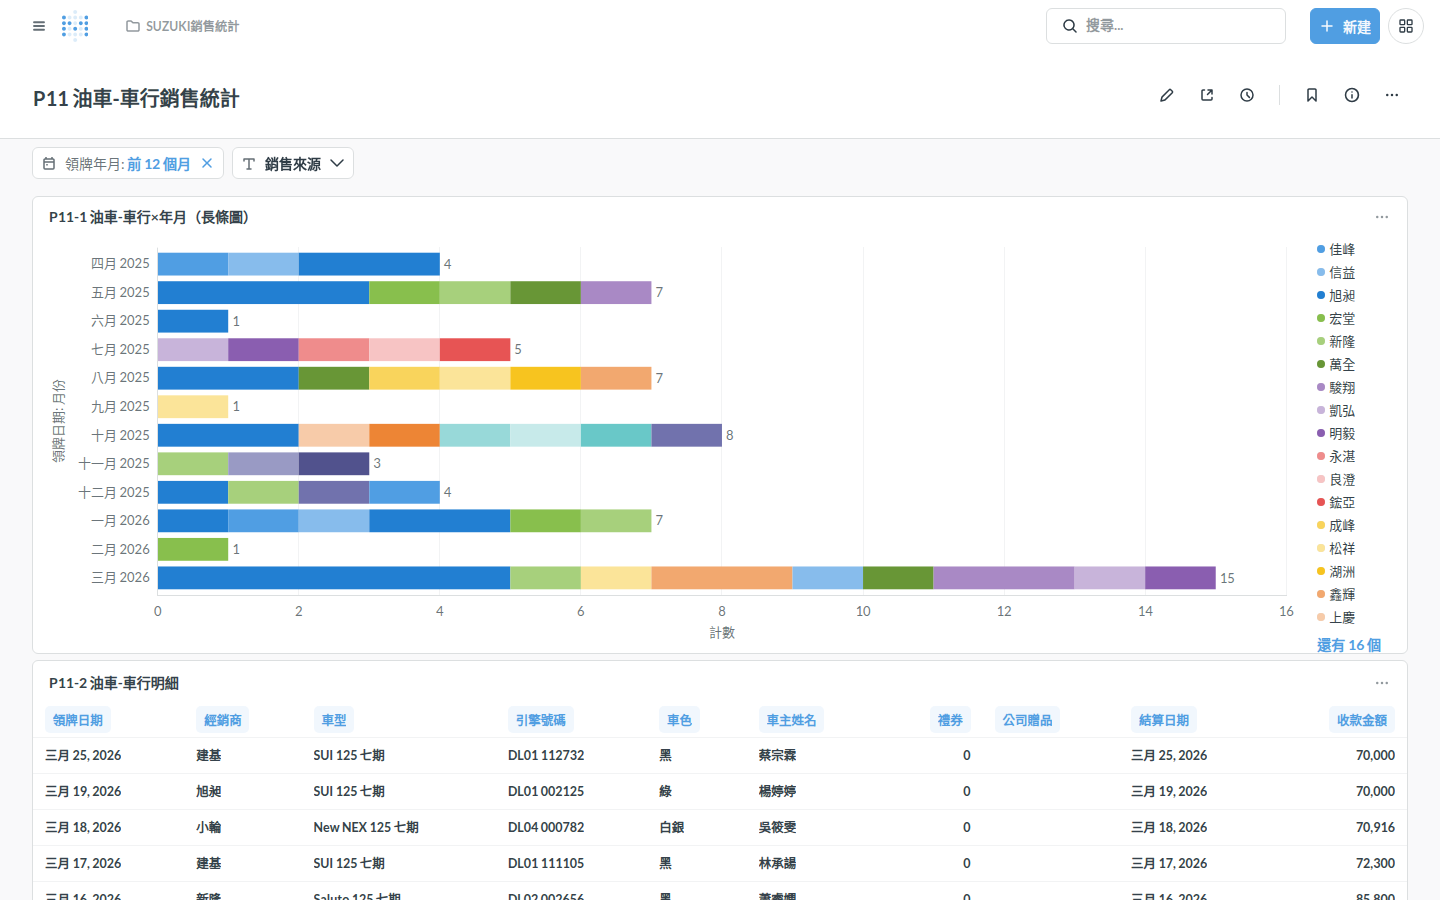
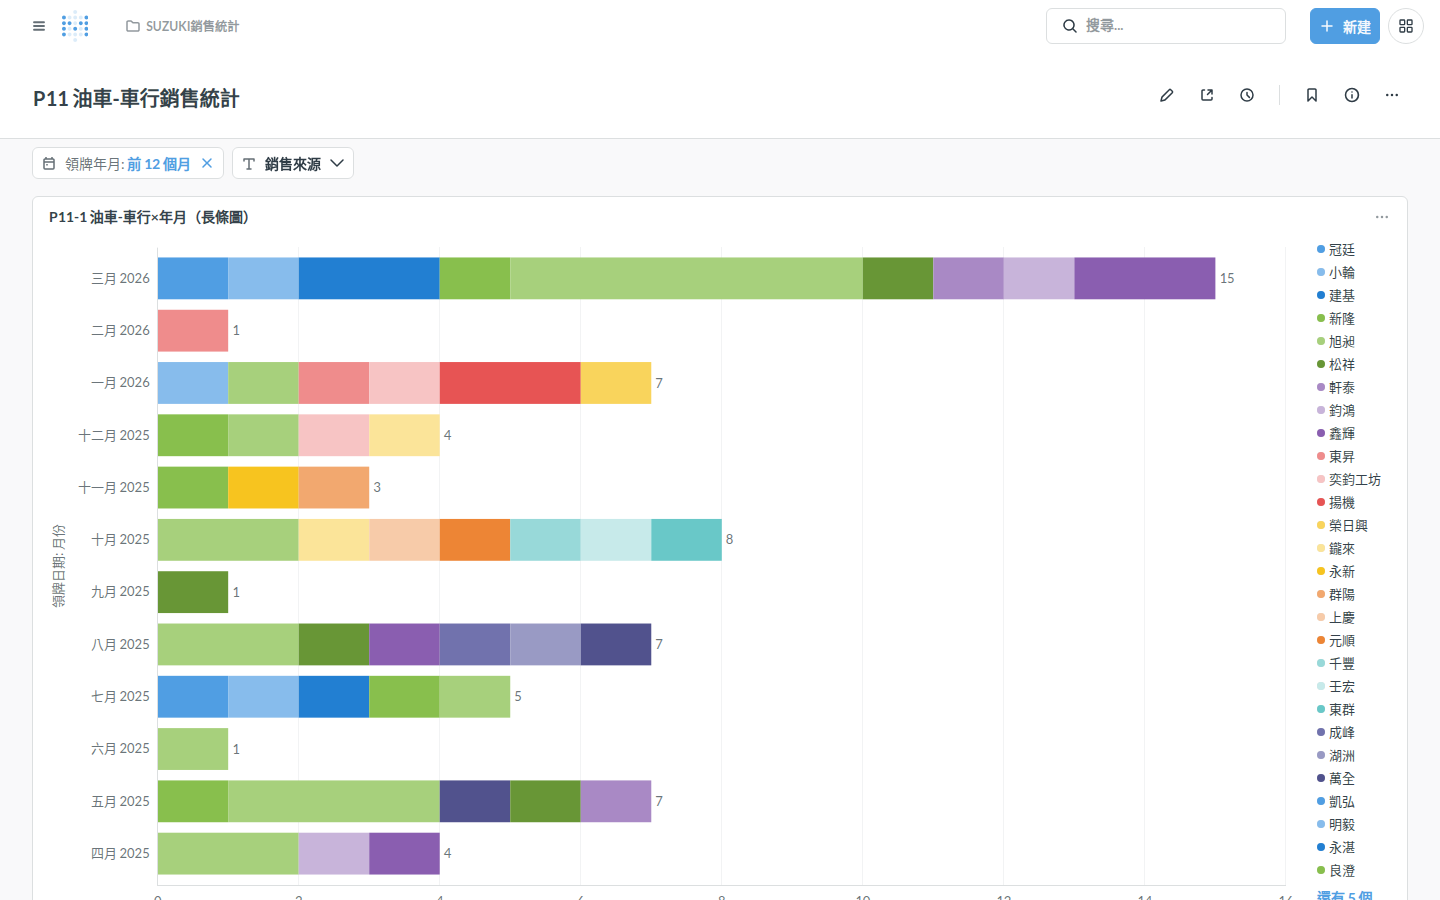
feat(metabase): 經銷商→車行 + 長條圖最新在上(最舊壓縮為其他)
1. ds_sales_report 欄位 display_name：經銷商/經銷商(含馭盛)/經銷商收款 → 車行/車行(含馭盛)/車行收款
2. 同步刷新 P 系列 card 的 result_metadata 與 native SQL 別名
3. 14 張日期長條圖 (P1-1/P1-3/P2-1/P3-1/P3-2/P4-1/P5-1/P6-1/P9-1/P9-2/P10-1/P11-1/P14/P20)
   - 領牌年月 order-by 由 asc 改 desc，最新月份置頂
   - graph.max_categories=12 + show_other_category：合計 13 條，最舊月份壓縮為「其他」
4. 對應 dashcard size_y 拉高至 13，避免被壓縮
5. metabase_i18n_zh.py 字典同步更新，避免日後重跑覆寫

diff --git a/scripts/metabase_fix_dealer_and_bars.py b/scripts/metabase_fix_dealer_and_bars.py
@@ -1,0 +1,295 @@
+#!/usr/bin/env python3
+"""一次處理兩件事：
+
+1. 將 ds_sales_report 表中欄位 display_name 由「經銷商」改為「車行」，
+   並把每張 P 系列 card 的 visualization_settings column_title / 軸標籤同步更新。
+2. 對於以「領牌年月（月份）」為類別軸的水平長條圖（row chart）：
+   - 將查詢 order-by 由 asc 改為 desc，讓最新的月份排在最上面。
+   - 設定 graph.max_categories = 12 + show_other_category，
+     讓最多顯示 12 個月份 + 「其他」共 13 條資料；被合併進「其他」的會是最舊的月份。
+   - 將儀表板上對應 dashcard 的 size_y 拉高到 13，避免被壓縮。
+"""
+import argparse
+import json
+
+import requests
+
+BASE = "http://localhost:3000/api"
+EMAIL = "admin@dmis.local"
+PASSWORD = "Dmis2026!"
+
+# 需要從「經銷商」改為「車行」的欄位顯示名稱
+FIELD_RENAME = {
+    "dealer":          "車行",
+    "dealer_not_null": "車行(含馭盛)",
+    "dealer_receipt":  "車行收款",
+}
+
+# 軸/欄位標籤替換（card 層級 visualization_settings）
+LABEL_RENAME = {
+    "經銷商":         "車行",
+    "經銷商(含馭盛)": "車行(含馭盛)",
+    "經銷商收款":     "車行收款",
+    "Dealer":         "車行",
+    "Dealer Not Null":"車行(含馭盛)",
+    "Dealer Receipt": "車行收款",
+}
+
+# 卡片名稱中含有「經銷」也一併改為「車行」
+CARD_NAME_RENAME = {
+    "經銷商": "車行",
+    "經銷":   "車行",
+}
+
+# 需要套用「最新顯示+其他壓縮最舊」的 row chart card name 前綴
+DATE_ROW_PREFIXES = (
+    "P1-1 ", "P1-3 ", "P2-1 ", "P3-1 ", "P3-2 ", "P4-1 ",
+    "P5-1 ", "P6-1 ", "P9-1 ", "P9-2 ", "P10-1 ", "P11-1 ",
+    "P14 ", "P20 ",
+)
+# license_date 欄位 id（ds_sales_report.license_date）
+LICENSE_DATE_FIELD_ID = 1629
+MAX_CATEGORIES = 12  # 12 + 1（其他）= 13
+TARGET_SIZE_Y = 13   # dashcard 高度
+
+
+def login():
+    r = requests.post(f"{BASE}/session",
+                      json={"username": EMAIL, "password": PASSWORD})
+    r.raise_for_status()
+    return {"X-Metabase-Session": r.json()["id"]}
+
+
+def rename_fields(headers, apply):
+    tables = requests.get(f"{BASE}/table", headers=headers).json()
+    tbl = next((t for t in tables if t.get("name") == "ds_sales_report"), None)
+    if not tbl:
+        print("[WARN] ds_sales_report table not found"); return
+    fields = requests.get(f"{BASE}/table/{tbl['id']}/query_metadata",
+                          headers=headers).json().get("fields", [])
+    for f in fields:
+        new = FIELD_RENAME.get(f.get("name"))
+        if new and f.get("display_name") != new:
+            print(f"  field#{f['id']} {f['name']}: '{f.get('display_name')}' -> '{new}'")
+            if apply:
+                requests.put(f"{BASE}/field/{f['id']}", headers=headers,
+                             json={"display_name": new}).raise_for_status()
+
+
+def rename_card_labels(headers, apply):
+    cards = requests.get(f"{BASE}/card/", headers=headers).json()
+    for c in cards:
+        cid = c["id"]; name = c.get("name") or ""
+        if not name.startswith("P"):
+            continue
+        new_name = name
+        for k, v in CARD_NAME_RENAME.items():
+            new_name = new_name.replace(k, v)
+        vs = dict(c.get("visualization_settings") or {})
+        changed = (new_name != name)
+
+        col_settings = vs.get("column_settings") or {}
+        for key, val in col_settings.items():
+            t = val.get("column_title")
+            if t in LABEL_RENAME:
+                val["column_title"] = LABEL_RENAME[t]
+                changed = True
+        for axis_key in ("graph.x_axis.title_text", "graph.y_axis.title_text"):
+            v = vs.get(axis_key)
+            if v in LABEL_RENAME:
+                vs[axis_key] = LABEL_RENAME[v]; changed = True
+        ss = vs.get("series_settings") or {}
+        for skey, sval in ss.items():
+            t = sval.get("title")
+            if t in LABEL_RENAME:
+                sval["title"] = LABEL_RENAME[t]; changed = True
+
+        if changed:
+            print(f"  card#{cid} {name} -> name='{new_name}', viz updated")
+            if apply:
+                payload = {"visualization_settings": vs}
+                if new_name != name:
+                    payload["name"] = new_name
+                requests.put(f"{BASE}/card/{cid}", headers=headers,
+                             json=payload).raise_for_status()
+
+
+def fix_date_row_charts(headers, apply):
+    cards = requests.get(f"{BASE}/card/", headers=headers).json()
+    target_ids = []
+    for c in cards:
+        name = c.get("name") or ""
+        if not any(name.startswith(p) for p in DATE_ROW_PREFIXES):
+            continue
+        if c.get("display") not in ("row", "bar"):
+            continue
+        target_ids.append(c["id"])
+
+        dq = json.loads(json.dumps(c.get("dataset_query") or {}))
+        stages = dq.get("stages") or []
+        if not stages:
+            print(f"  [SKIP] card#{c['id']} {name}: 無 mbql stage"); continue
+        st = stages[0]
+
+        # 找出 license_date breakout，準備換成 order-by desc
+        ob_changed = False
+        new_order = []
+        has_date_order = False
+        for ob in st.get("order-by", []) or []:
+            direction, _meta, field_ref = ob
+            if (isinstance(field_ref, list) and len(field_ref) >= 3
+                    and field_ref[2] == LICENSE_DATE_FIELD_ID):
+                has_date_order = True
+                if direction != "desc":
+                    ob[0] = "desc"; ob_changed = True
+            new_order.append(ob)
+        if not has_date_order:
+            new_order.insert(0, [
+                "desc",
+                {"lib/uuid": f"auto-desc-{c['id']}"},
+                ["field",
+                 {"base-type": "type/Date", "temporal-unit": "month",
+                  "effective-type": "type/Date",
+                  "lib/uuid": f"auto-field-{c['id']}"},
+                 LICENSE_DATE_FIELD_ID],
+            ])
+            ob_changed = True
+        st["order-by"] = new_order
+
+        vs = dict(c.get("visualization_settings") or {})
+        viz_changed = False
+        if vs.get("graph.max_categories") != MAX_CATEGORIES:
+            vs["graph.max_categories"] = MAX_CATEGORIES; viz_changed = True
+        if vs.get("graph.show_other_category") is not True:
+            vs["graph.show_other_category"] = True; viz_changed = True
+        if vs.get("graph.other_category_aggregation_fn") != "sum":
+            vs["graph.other_category_aggregation_fn"] = "sum"; viz_changed = True
+
+        if not (ob_changed or viz_changed):
+            print(f"  [SKIP] card#{c['id']} {name}: 已是預期設定"); continue
+
+        print(f"  card#{c['id']} {name}: order_by_desc={ob_changed}, viz={viz_changed}")
+        if apply:
+            requests.put(f"{BASE}/card/{c['id']}", headers=headers,
+                         json={
+                             "dataset_query": dq,
+                             "visualization_settings": vs,
+                         }).raise_for_status()
+    return set(target_ids)
+
+
+def expand_dashcards(headers, target_card_ids, apply):
+    if not target_card_ids:
+        return
+    for d in requests.get(f"{BASE}/dashboard", headers=headers).json():
+        dd = requests.get(f"{BASE}/dashboard/{d['id']}", headers=headers).json()
+        dashcards = dd.get("dashcards") or []
+        changed = False
+        for dc in dashcards:
+            if (dc.get("card") or {}).get("id") in target_card_ids:
+                if (dc.get("size_y") or 0) < TARGET_SIZE_Y:
+                    print(f"  dashboard#{d['id']} {d['name']} dashcard#{dc['id']}"
+                          f" size_y {dc.get('size_y')} -> {TARGET_SIZE_Y}")
+                    dc["size_y"] = TARGET_SIZE_Y; changed = True
+        if changed and apply:
+            payload = []
+            for dc in dashcards:
+                payload.append({
+                    "id": dc["id"],
+                    "card_id": (dc.get("card") or {}).get("id"),
+                    "row": dc.get("row"),
+                    "col": dc.get("col"),
+                    "size_x": dc.get("size_x"),
+                    "size_y": dc.get("size_y"),
+                    "series": [s.get("id") for s in (dc.get("series") or [])],
+                    "parameter_mappings": dc.get("parameter_mappings") or [],
+                    "visualization_settings": dc.get("visualization_settings") or {},
+                })
+            requests.put(f"{BASE}/dashboard/{d['id']}/cards",
+                         headers=headers,
+                         json={"cards": payload}).raise_for_status()
+
+
+def patch_native_sql(headers, apply):
+    """把 native query 中的 `AS "經銷商"` 改成 `AS "車行"`，
+    以及 result_metadata 內的舊顯示名稱。"""
+    cards = requests.get(f"{BASE}/card/", headers=headers).json()
+    for c in cards:
+        dq = c.get("dataset_query") or {}
+        stages = dq.get("stages") or []
+        if not stages:
+            continue
+        st = stages[0]
+        if st.get("lib/type") != "mbql.stage/native":
+            continue
+        sql = st.get("native") or ""
+        new_sql = sql
+        for k, v in LABEL_RENAME.items():
+            new_sql = new_sql.replace(f'AS "{k}"', f'AS "{v}"')
+        if new_sql == sql:
+            continue
+        new_dq = json.loads(json.dumps(dq))
+        new_dq["stages"][0]["native"] = new_sql
+        # 同步更新 result_metadata 中對應的 name/display_name
+        new_rmd = json.loads(json.dumps(c.get("result_metadata") or []))
+        for m in new_rmd:
+            for k, v in LABEL_RENAME.items():
+                if m.get("name") == k:
+                    m["name"] = v
+                if m.get("display_name") == k:
+                    m["display_name"] = v
+        print(f"  card#{c['id']} {c.get('name')}: native SQL updated")
+        if apply:
+            requests.put(f"{BASE}/card/{c['id']}", headers=headers,
+                         json={"dataset_query": new_dq,
+                               "result_metadata": new_rmd}).raise_for_status()
+
+
+def refresh_card_metadata(headers, apply):
+    """重新跑一次 query，讓帶有 dealer 欄位的 card 重新計算 result_metadata，
+    使快取在 result_metadata.display_name 中的『經銷商』字串改寫成『車行』。"""
+    cards = requests.get(f"{BASE}/card/", headers=headers).json()
+    for c in cards:
+        rmd = c.get("result_metadata") or []
+        has_dealer = any((m.get("name") in FIELD_RENAME) for m in rmd)
+        if not has_dealer:
+            continue
+        print(f"  refresh card#{c['id']} {c.get('name')}")
+        if apply:
+            try:
+                requests.post(f"{BASE}/card/{c['id']}/query",
+                              headers=headers, json={"ignore_cache": True}, timeout=60)
+            except Exception as e:
+                print(f"    [warn] refresh failed: {e}")
+
+
+def main():
+    ap = argparse.ArgumentParser()
+    ap.add_argument("--apply", action="store_true",
+                    help="實際寫入 Metabase（缺省為 dry run）")
+    args = ap.parse_args()
+    h = login()
+
+    print("=== 1. 欄位 display_name：經銷商 → 車行 ===")
+    rename_fields(h, args.apply)
+
+    print("\n=== 2. Card 標籤/名稱：經銷商 → 車行 ===")
+    rename_card_labels(h, args.apply)
+
+    print("\n=== 3. 日期長條圖：最新在上、其他壓縮最舊 ===")
+    target_ids = fix_date_row_charts(h, args.apply)
+
+    print("\n=== 4. 對應 dashcard 拉高至 size_y >= 13 ===")
+    expand_dashcards(h, target_ids, args.apply)
+
+    print("\n=== 5. 重新跑帶 dealer 欄位的 card 以刷新 result_metadata ===")
+    refresh_card_metadata(h, args.apply)
+
+    print("\n=== 6. 修補 native SQL 別名：經銷商 → 車行 ===")
+    patch_native_sql(h, args.apply)
+
+    print("\n[DONE] " + ("APPLIED" if args.apply else "DRY RUN"))
+
+
+if __name__ == "__main__":
+    main()

diff --git a/scripts/metabase_i18n_zh.py b/scripts/metabase_i18n_zh.py
@@ -16,8 +16,8 @@ FIELD_DISPLAY_NAME = {
     "model":              "車型",
     "car_color":          "車色",
     "model_color":        "車型_車色",
-    "dealer":             "經銷商",
-    "dealer_not_null":    "經銷商(含馭盛)",
+    "dealer":             "車行",
+    "dealer_not_null":    "車行(含駭盛)",
     "vin_or_en":          "引擎號碼",
     "license_plate":      "車牌號碼",
     "energy_type":        "能源型式",
@@ -38,7 +38,7 @@ FIELD_DISPLAY_NAME = {
     "friendly_bonus_out": "友好獎金",
     "first_sale_bonus":   "首賣獎金",
     "basic_bonus":        "基本獎金",
-    "dealer_receipt":     "經銷商收款",
+    "dealer_receipt":     "車行收款",
     "company_gift":       "公司贈品",
     "platform_gift":      "平台贈品",
     "gift_card":          "禮券",
@@ -63,8 +63,8 @@ AXIS_LABELS = {
     "License Ym": "領牌年月",
     "Sales Source": "銷售來源",
     "Motor Type": "車種類型",
-    "Dealer": "經銷商",
-    "Dealer Not Null": "經銷商(含馭盛)",
+    "Dealer": "車行",
+    "Dealer Not Null": "車行(含駭盛)",
     "Model": "車型",
     "Region": "地區",
     "Sex": "性別",
